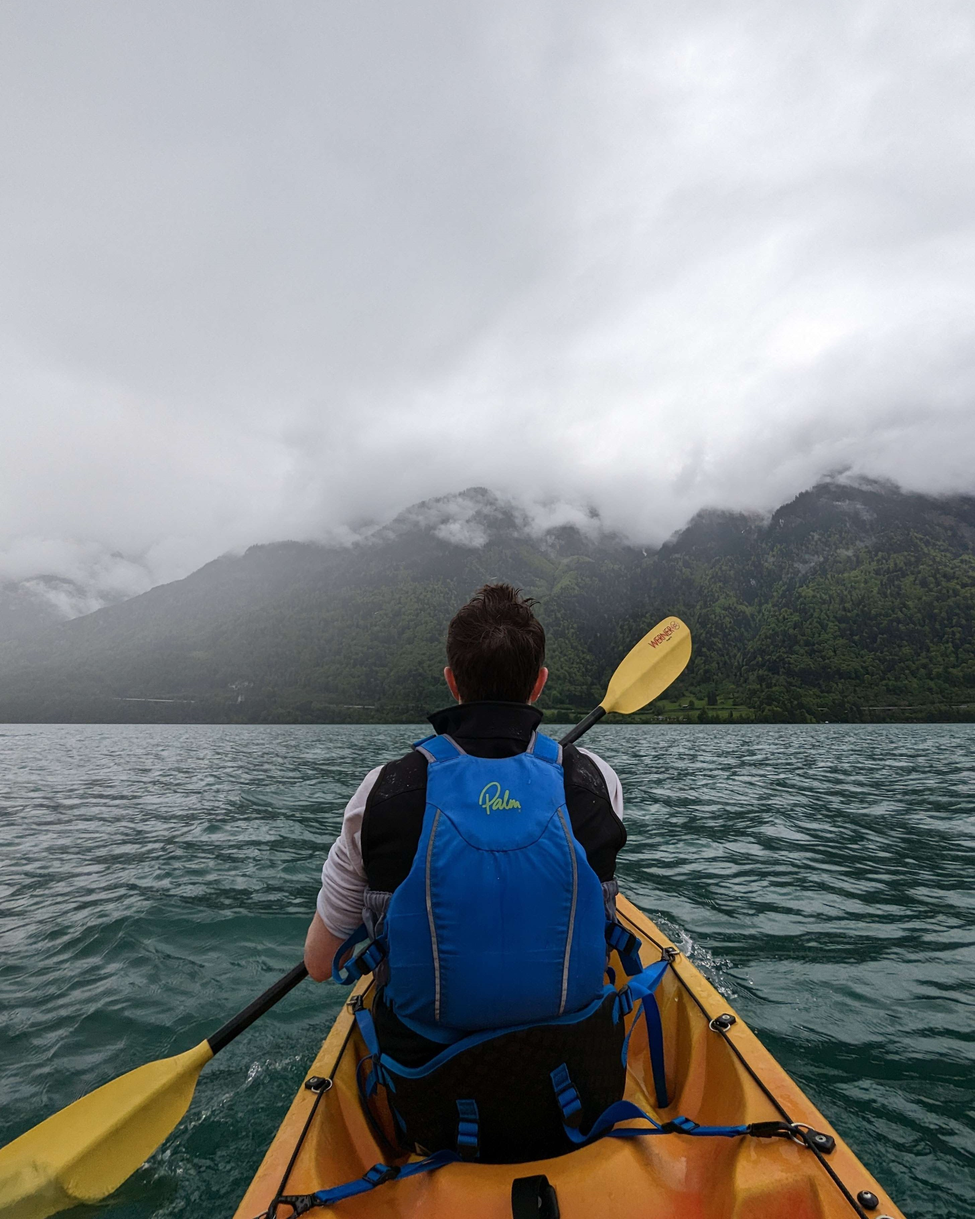
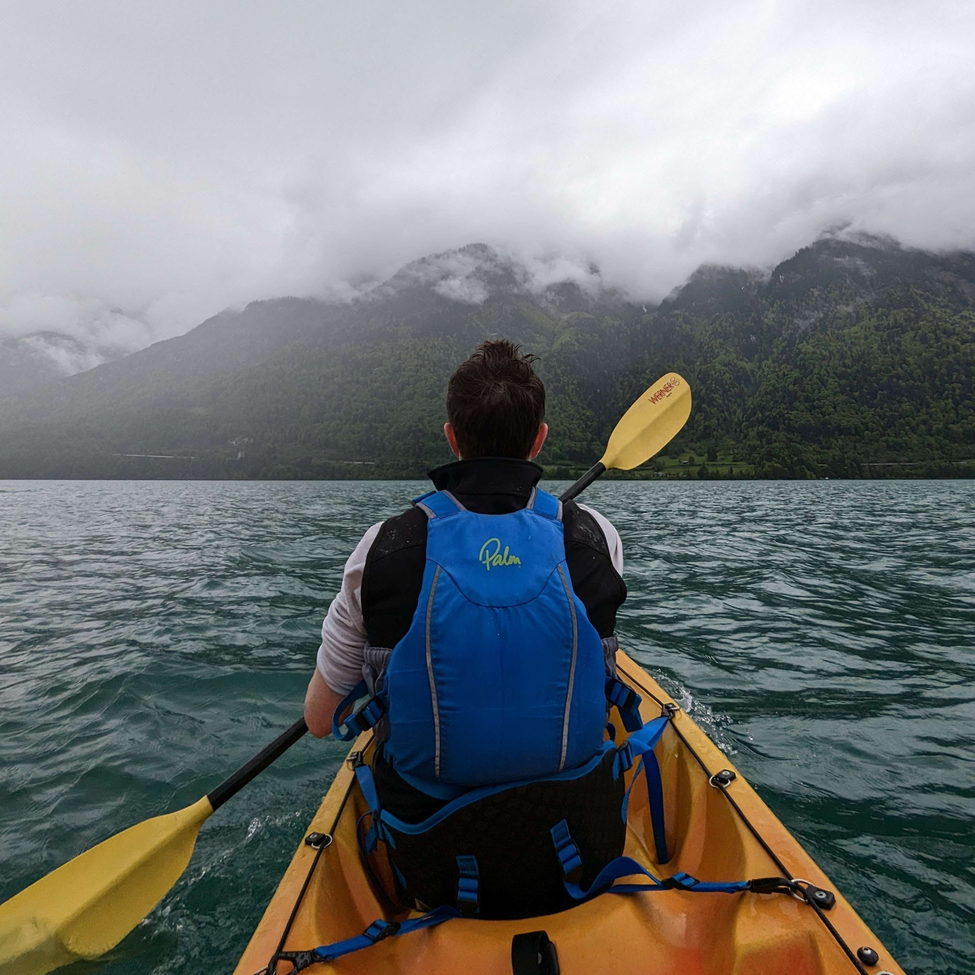
Landing page refactored

diff --git a/app/sections/landing.tsx b/app/sections/landing.tsx
@@ -1,21 +1,36 @@
-import { Box, Flex, Heading, Image, Link, Stack, Text } from "@chakra-ui/react";
+"use client";
+
+import {
+  Box,
+  Flex,
+  Heading,
+  Image,
+  Link,
+  Stack,
+  Text,
+  useColorModeValue,
+} from "@chakra-ui/react";
+import { motion } from "framer-motion";
 
 export default function Landing() {
+  const transition = {
+    ease: "easeIn",
+    duration: 0.25,
+  };
   return (
     <Flex
       id="Landing"
       align="center"
       justify={{ base: "center", md: "space-around" }}
-      direction={{ base: "column", md: "row" }}
+      direction={{ base: "column-reverse", md: "row" }}
       minH="calc(100vh - 100px)"
-      gap={5}
+      gap={[10, 10, 5]}
+      mx={{ base: "auto", lg: "-30px" }}
     >
-      <Stack gap="10px">
-        <Heading size="xl">{"Hi! I'm Matt."}</Heading>
-        <Heading size="md" fontWeight="regular">
-          {"Stick around to learn a bit about me."}
-        </Heading>
-        <Text fontSize={{ base: "sm" }}>
+      <Stack gap="10px" textAlign={{ base: "center", md: "start" }}>
+        <Heading size="xl">{"Hi! My name is Matt."}</Heading>
+
+        <Text fontSize="md">
           Welcome to the home of my{" "}
           <Link variant={"inline"} href="/#Projects">
             Projects
@@ -27,9 +42,25 @@ export default function Landing() {
           , and continuous development.
         </Text>
       </Stack>
-      <Box maxW={"sm"} rounded={"xl"}>
-        <Image src="./landing-photo.jpg" alt="" rounded={"xl"}></Image>
-      </Box>
+      <motion.div
+        style={{ height: "100%" }}
+        initial={{ scale: 1.4, opacity: 0 }}
+        transition={transition}
+        whileInView={{ scale: 1, opacity: 1 }}
+        viewport={{ once: true }}
+      >
+        <Box
+          height={"fit-content"}
+          maxW={["xs", "xs", "sm", "md"]}
+          overflow={"hidden"}
+          p={[6, 6, 6, 8]}
+          rounded={"full"}
+          border={"2px dashed"}
+          borderColor={useColorModeValue("outline.light", "outline.dark")}
+        >
+          <Image src="./landing-photo.jpg" alt="" rounded={"full"}></Image>
+        </Box>
+      </motion.div>
     </Flex>
   );
 }

diff --git a/app/components/nav-bar.tsx b/app/components/nav-bar.tsx
@@ -16,16 +16,28 @@ import {
   useDisclosure,
   useOutsideClick,
 } from "@chakra-ui/react";
-import { useMemo, useRef } from "react";
+import { useMemo, useRef, useState } from "react";
 import IconSwitch from "./icon-switch";
 import { IoMoon, IoSunny } from "react-icons/io5";
 import { navLinks } from "../constants";
+import { useMotionValueEvent, useScroll } from "framer-motion";
 
 export default function NavBar() {
   const { isOpen, onToggle } = useDisclosure();
   const { colorMode, toggleColorMode } = useColorMode();
+  const [showBorder, setShowBorder] = useState(false);
 
   const isLightMode = useMemo(() => colorMode === "light", [colorMode]);
+
+  const { scrollY } = useScroll();
+
+  useMotionValueEvent(scrollY, "change", (height) => {
+    if (height > 10 && !showBorder) {
+      setShowBorder(true);
+    } else if (height < 10 && showBorder) {
+      setShowBorder(false);
+    }
+  });
 
   const ref = useRef(null);
   useOutsideClick({
@@ -59,10 +71,7 @@ export default function NavBar() {
 
   return (
     <Box
-      boxShadow={useColorModeValue(
-        "0px 2px 3px #2D3748",
-        "0px 2px 3px #b8c4e0"
-      )}
+      boxShadow={showBorder ? "0px 2px 3px #2D3748" : ""}
       bg={"inherit"}
       position="sticky"
       top={0}

diff --git a/app/layout.tsx b/app/layout.tsx
@@ -16,7 +16,7 @@ export const metadata: Metadata = {
       "Welcome to my website. This is the home of my Projects, Hobbies, and a place to show off my creativity.",
     images: [
       {
-        url: "/images/website-image-2.png",
+        url: "/images/preview-image.png",
         width: 1220,
         height: 864,
         alt: "Matthew McCracken's Website",

diff --git a/app/page.tsx b/app/page.tsx
@@ -9,7 +9,11 @@ import Footer from "./components/footer";
 
 export default function Home() {
   return (
-    <Container maxW="container.lg" padding={{ base: 6, sm: 8 }}>
+    <Container
+      maxW="container.lg"
+      p={{ base: 6, sm: 6 }}
+      pt={{ base: 0, sm: 0 }}
+    >
       <Landing />
       <Divider />
       <AboutMe />
